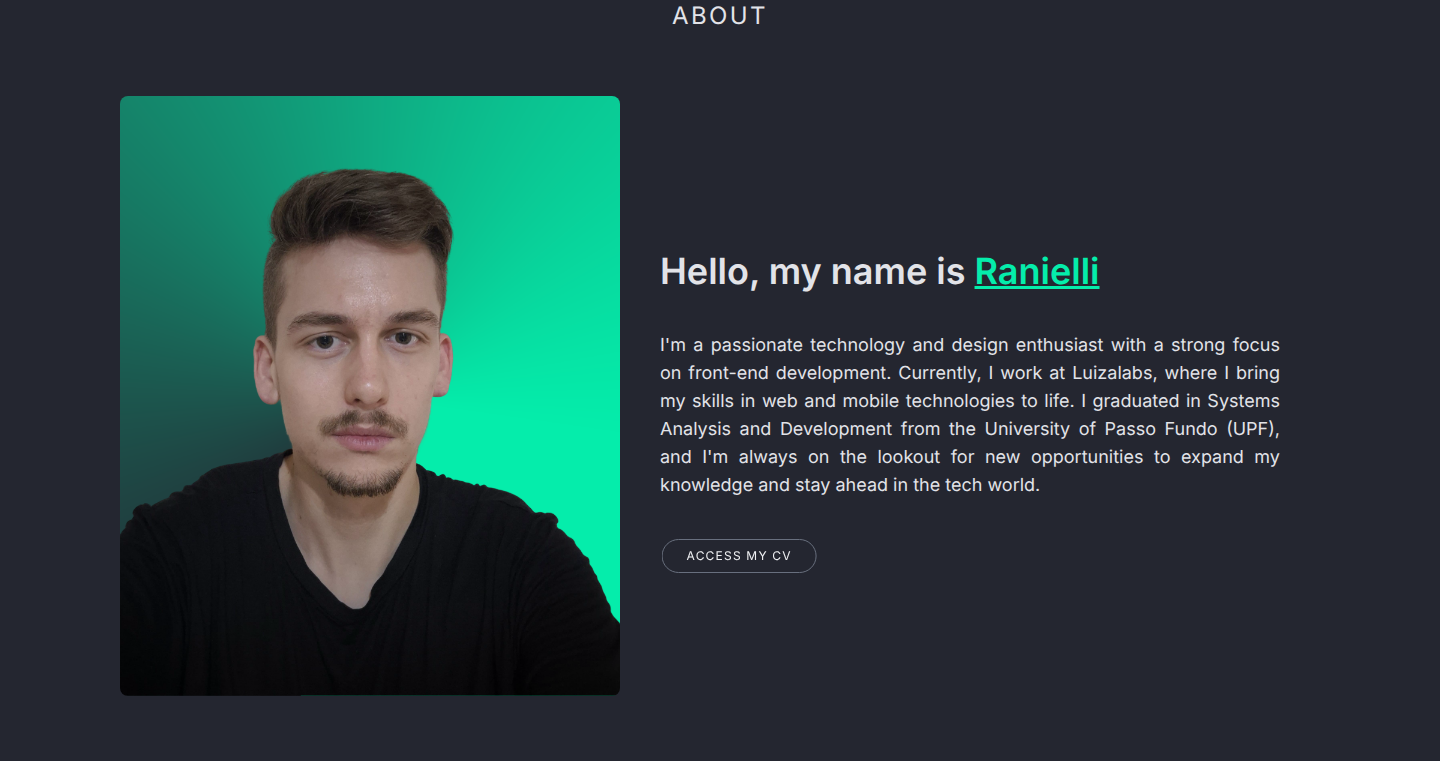
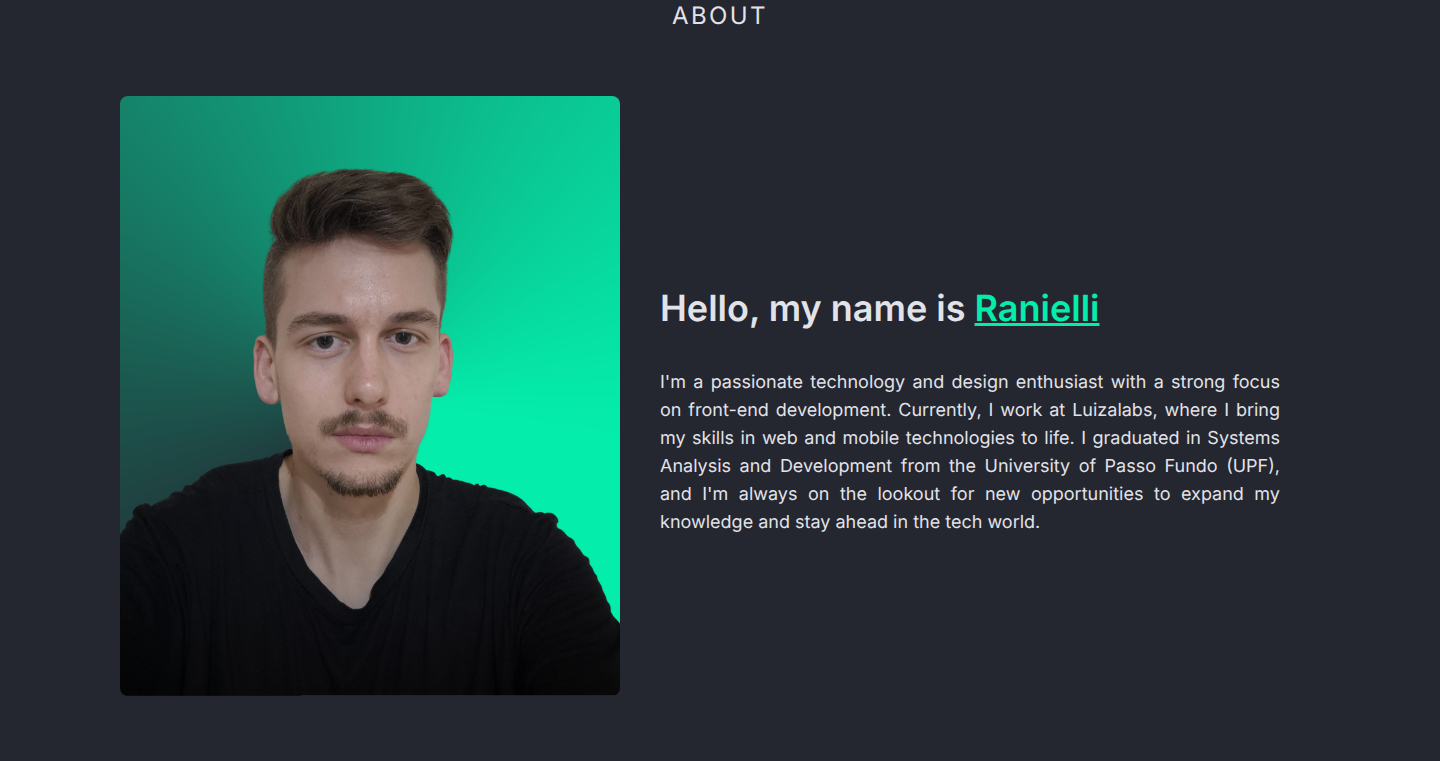
docs: point the README to GitHub Pages and the new repository name

Changed region(s): [[0.4375, 0.3325, 0.9062, 0.6951], [0.4688, 0.7254, 0.5625, 0.7556]]

diff --git a/README.md b/README.md
@@ -1,6 +1,6 @@
 <div align="center">
 
-# nextlp
+# 2024.ranimontagna.com
 
 **My personal portfolio from 2022 to 2025: a one-page site in Portuguese and English with my experience, projects and public GitHub repositories. It was ranimontagna.com until my current site replaced it.**
 
@@ -11,7 +11,7 @@
 ![Framer Motion](https://img.shields.io/badge/Framer_Motion-0055FF?style=for-the-badge&logo=framer&logoColor=white)
 ![Vitest](https://img.shields.io/badge/Vitest-6E9F18?style=for-the-badge&logo=vitest&logoColor=white)
 
-[**Live site**](https://old.ranimontagna.com/) •
+[**Live site**](https://2024.ranimontagna.com/) •
 [Features](#features) •
 [Screenshots](#screenshots) •
 [Project layout](#project-layout) •
@@ -21,31 +21,33 @@
 </div>
 
 > [!WARNING]
-> **Discontinued.** nextlp is no longer maintained and this repository is archived as a portfolio reference. My current site is [ranimontagna.com](https://ranimontagna.com). This one is still online at [old.ranimontagna.com](https://old.ranimontagna.com/), with a banner pointing to the new site, and its content stops in late 2024.
+> **Discontinued.** This site is no longer maintained and this repository is archived as a portfolio reference. My current site is [ranimontagna.com](https://ranimontagna.com). A static copy of this one is online at [2024.ranimontagna.com](https://2024.ranimontagna.com/) on GitHub Pages, with a banner pointing to the new site, and its content stops in late 2024.
 
-![nextlp hero in English](docs/screenshots/hero.png)
+![Hero in English](docs/screenshots/hero.png)
 
 ## About
 
-I started nextlp in September 2022 to replace my previous site, [rani-website](https://github.com/RanielliMontagna/rani-website), and kept it as my portfolio for three years. The first version ran on the Next.js 13 pages router with next-i18next and Jest. In November 2024 I rewrote it on the App Router with next-intl and Vitest, added lint and test workflows and brought coverage to 100%. When my new site launched in September 2025, this one got a banner pointing to it and moved to old.ranimontagna.com.
+I started this site, then called nextlp, in September 2022 to replace my previous site, [2022.ranimontagna.com](https://github.com/RanielliMontagna/2022.ranimontagna.com), and kept it as my portfolio for three years. The first version ran on the Next.js 13 pages router with next-i18next and Jest. In November 2024 I rewrote it on the App Router with next-intl and Vitest, added lint and test workflows and brought coverage to 100%. When my new site launched in September 2025, this one got a banner pointing to it and moved to old.ranimontagna.com.
+
+In October 2026 I turned it into a static export so it could stay online on GitHub Pages, renamed the repository to `2024.ranimontagna.com`, after the year of its last version, and took down the CVs, which had my phone number.
 
 ## Features
 
 - **Hero** with a typewriter greeting and buttons for each section, under a floating header with LinkedIn, Instagram, Twitter and e-mail links.
-- **About** with my photo and a link to my CV in the current language (`public/cv_pt.pdf`, `public/cv_en.pdf`).
+- **About** with my photo and a short bio. It linked to my CV in the current language until October 2026, when the CVs came out because they had my phone number.
 - **Technologies**, **experiences** (Luizalabs, Smarten, SB Sistemas) and **professional projects**, all written in the translation files.
 - **Public repositories** loaded from the GitHub API in the browser, newest push first, skipping forks, archived repositories and repositories without a description. Nine cards show at first, with a button for the rest, and skeletons while they load.
 - **Contact** with a button that opens an e-mail, and a translated 404 page.
-- **Portuguese and English** with next-intl: `/` redirects to `/pt`, and `/en` serves the English version.
+- **Portuguese and English** with next-intl: `/pt/` and `/en/` are generated at build time, and `/` redirects to `/pt/`.
 - Entrance animations with Framer Motion.
 
 ## Screenshots
 
-Taken in October 2026 from a local production build, in English. The repository list shows my public repositories on that day.
+Taken in October 2026 from the static build, in English. The repository list shows my public repositories on that day.
 
 <table>
   <tr>
-    <td width="50%"><img src="docs/screenshots/about.png" alt="About section" /><p align="center"><sub>About, with the CV in the current language</sub></p></td>
+    <td width="50%"><img src="docs/screenshots/about.png" alt="About section" /><p align="center"><sub>About</sub></p></td>
     <td width="50%"><img src="docs/screenshots/projects.png" alt="Professional projects" /><p align="center"><sub>Professional projects</sub></p></td>
   </tr>
   <tr>
@@ -61,11 +63,11 @@ Taken in October 2026 from a local production build, in English. The repository 
 
 ```text
 messages/              # pt.json and en.json: every text on the page, including experiences and projects
-public/                # CVs in Portuguese and English, icons
+public/                # icons
 src/
-├── app/[locale]/      # layout (Inter font, next-intl provider), the page and a catch-all 404
+├── app/               # redirect from / to /pt/, 404 page that goes back home, pass-through root layout
+├── app/[locale]/      # document layout (Inter font, next-intl provider, static params for pt and en) and the page
 ├── i18n/              # locales (pt by default, en) and navigation helpers
-├── middleware.ts      # next-intl locale redirect
 ├── containers/        # one folder per section: header, hero, about, technologies, experiences, projects, repos, contact
 ├── components/        # card, section title, footer and the new-site banner
 ├── contexts/          # app context that loads the repositories
@@ -83,26 +85,29 @@ src/
 | Languages | next-intl 3 |
 | Data | Octokit (GitHub REST API) |
 | Quality | Vitest 2, Testing Library, jsdom, ESLint 9, Prettier, GitHub Actions |
-| Hosting | Vercel |
+| Hosting | Vercel until 2026, now GitHub Pages (static export) |
 
 ## Running locally
 
 Last checked in October 2026 on Node.js 24.
 
 ```bash
-git clone https://github.com/RanielliMontagna/nextlp.git
-cd nextlp
+git clone https://github.com/RanielliMontagna/2024.ranimontagna.com.git
+cd 2024.ranimontagna.com
 npx pnpm@9 install --frozen-lockfile
 
-npx pnpm@9 dev             # http://localhost:3000, redirects to /pt
+npx pnpm@9 dev             # http://localhost:3000, redirects to /pt/
 npx pnpm@9 lint            # ESLint, tsc and Prettier
 npx pnpm@9 test:coverage   # 41 tests, 100% coverage
-npx pnpm@9 build && npx pnpm@9 start
+npx pnpm@9 build           # static site in out/
+python3 -m http.server -d out 3000
 ```
 
 Use pnpm 9, the version that wrote the lockfile: newer versions stop at esbuild's install script until you approve it with `pnpm approve-builds`.
 
 No environment variables are needed. `.env.example` lists `GITHUB_TOKEN`, but the repositories are fetched in the browser, where that variable does not exist, so the site always uses the unauthenticated GitHub API (60 requests per hour per IP address).
+
+The `gh-pages` branch holds the contents of `out/`, a `CNAME` file for 2024.ranimontagna.com and a `.nojekyll` file, so GitHub Pages serves the `_next` folder.
 
 ## Project history
 
@@ -114,7 +119,7 @@ No environment variables are needed. `.env.example` lists `GITHUB_TOKEN`, but th
 - **January–February 2024**: Jest tests, public repositories from the GitHub API and the professional projects section.
 - **November 2024**: rewrite on the App Router with next-intl, Vitest and ESLint 9; lint and test workflows, MIT license and 100% coverage.
 - **September 2025**: banner pointing to the new ranimontagna.com; this site moved to old.ranimontagna.com.
-- **October 2026**: archived.
+- **October 2026**: static export published on GitHub Pages at 2024.ranimontagna.com, with old.ranimontagna.com redirecting there; CVs removed; repository renamed from `nextlp`; archived.
 
 ## License
 
